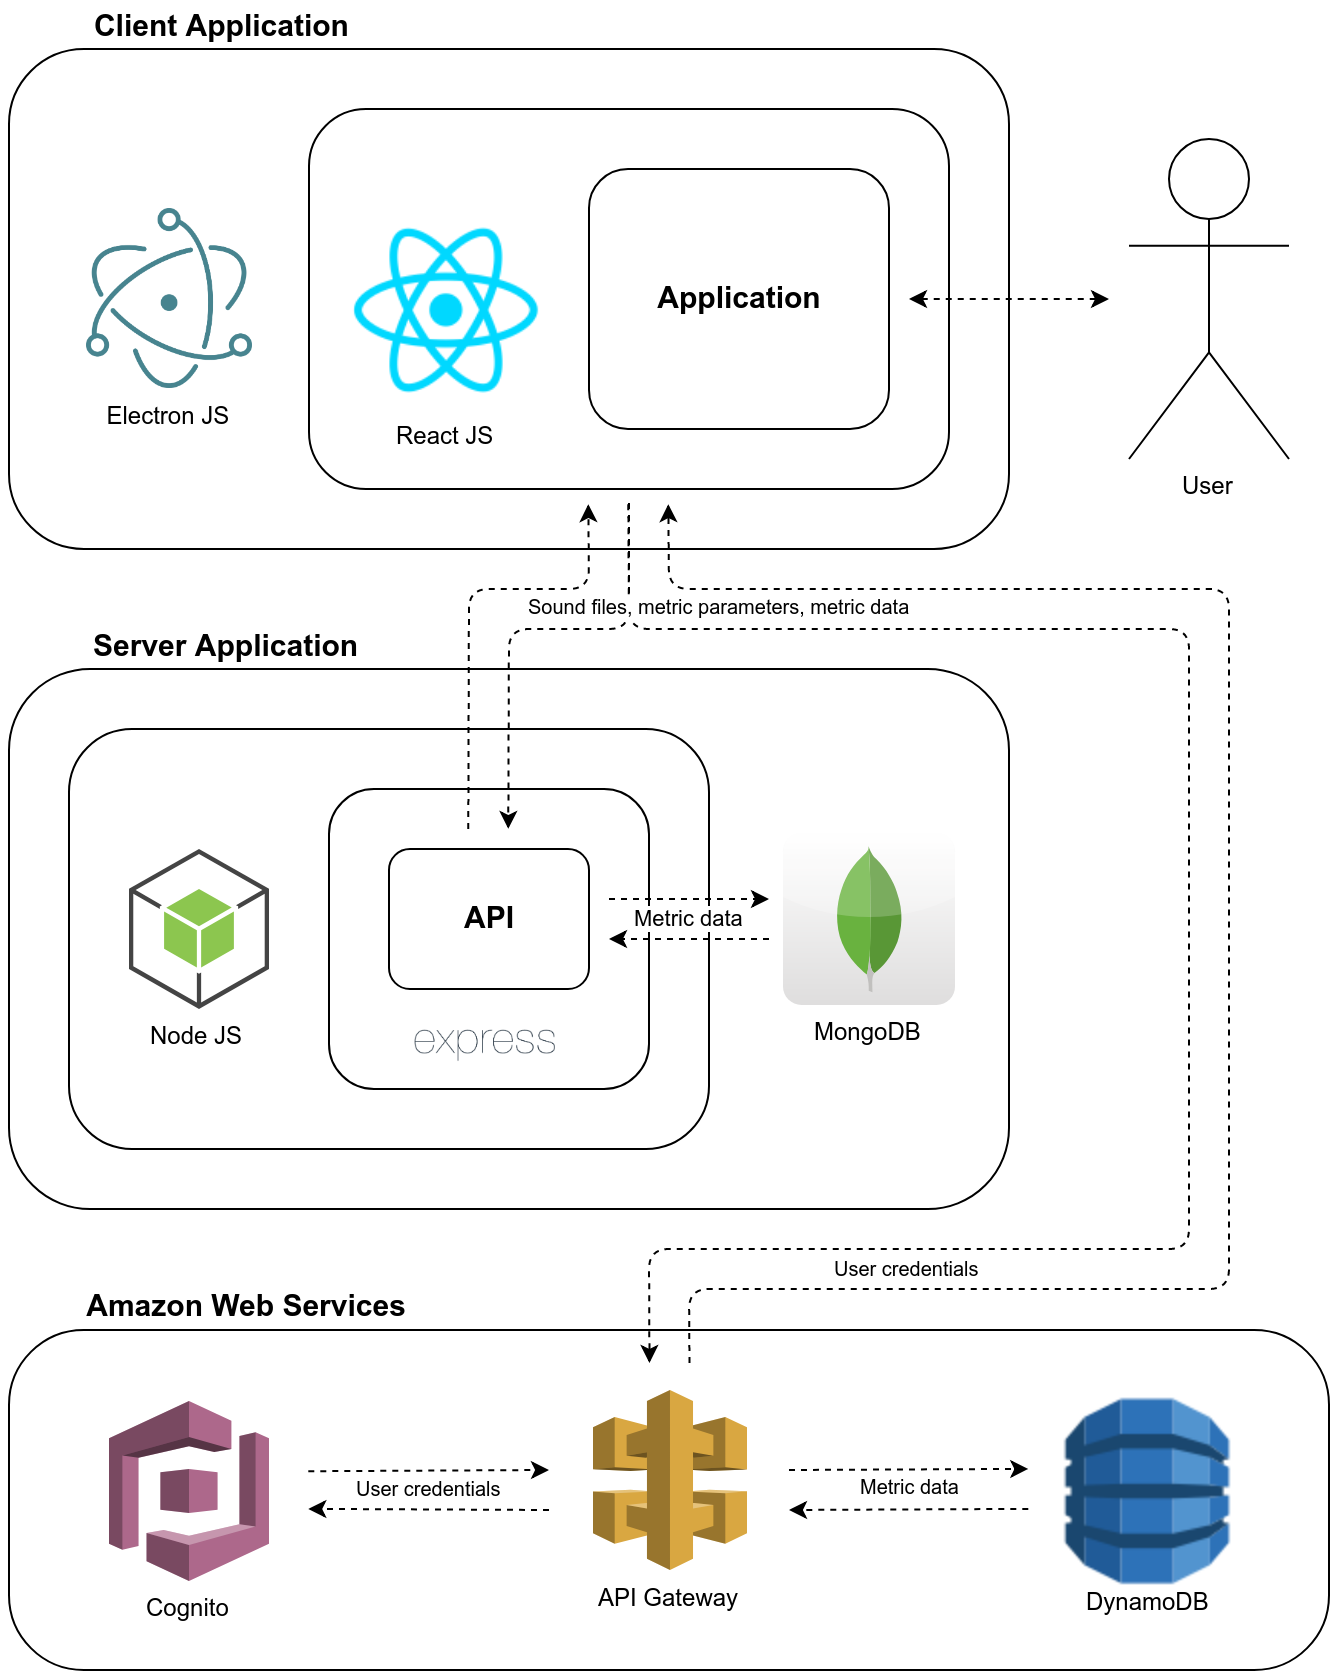
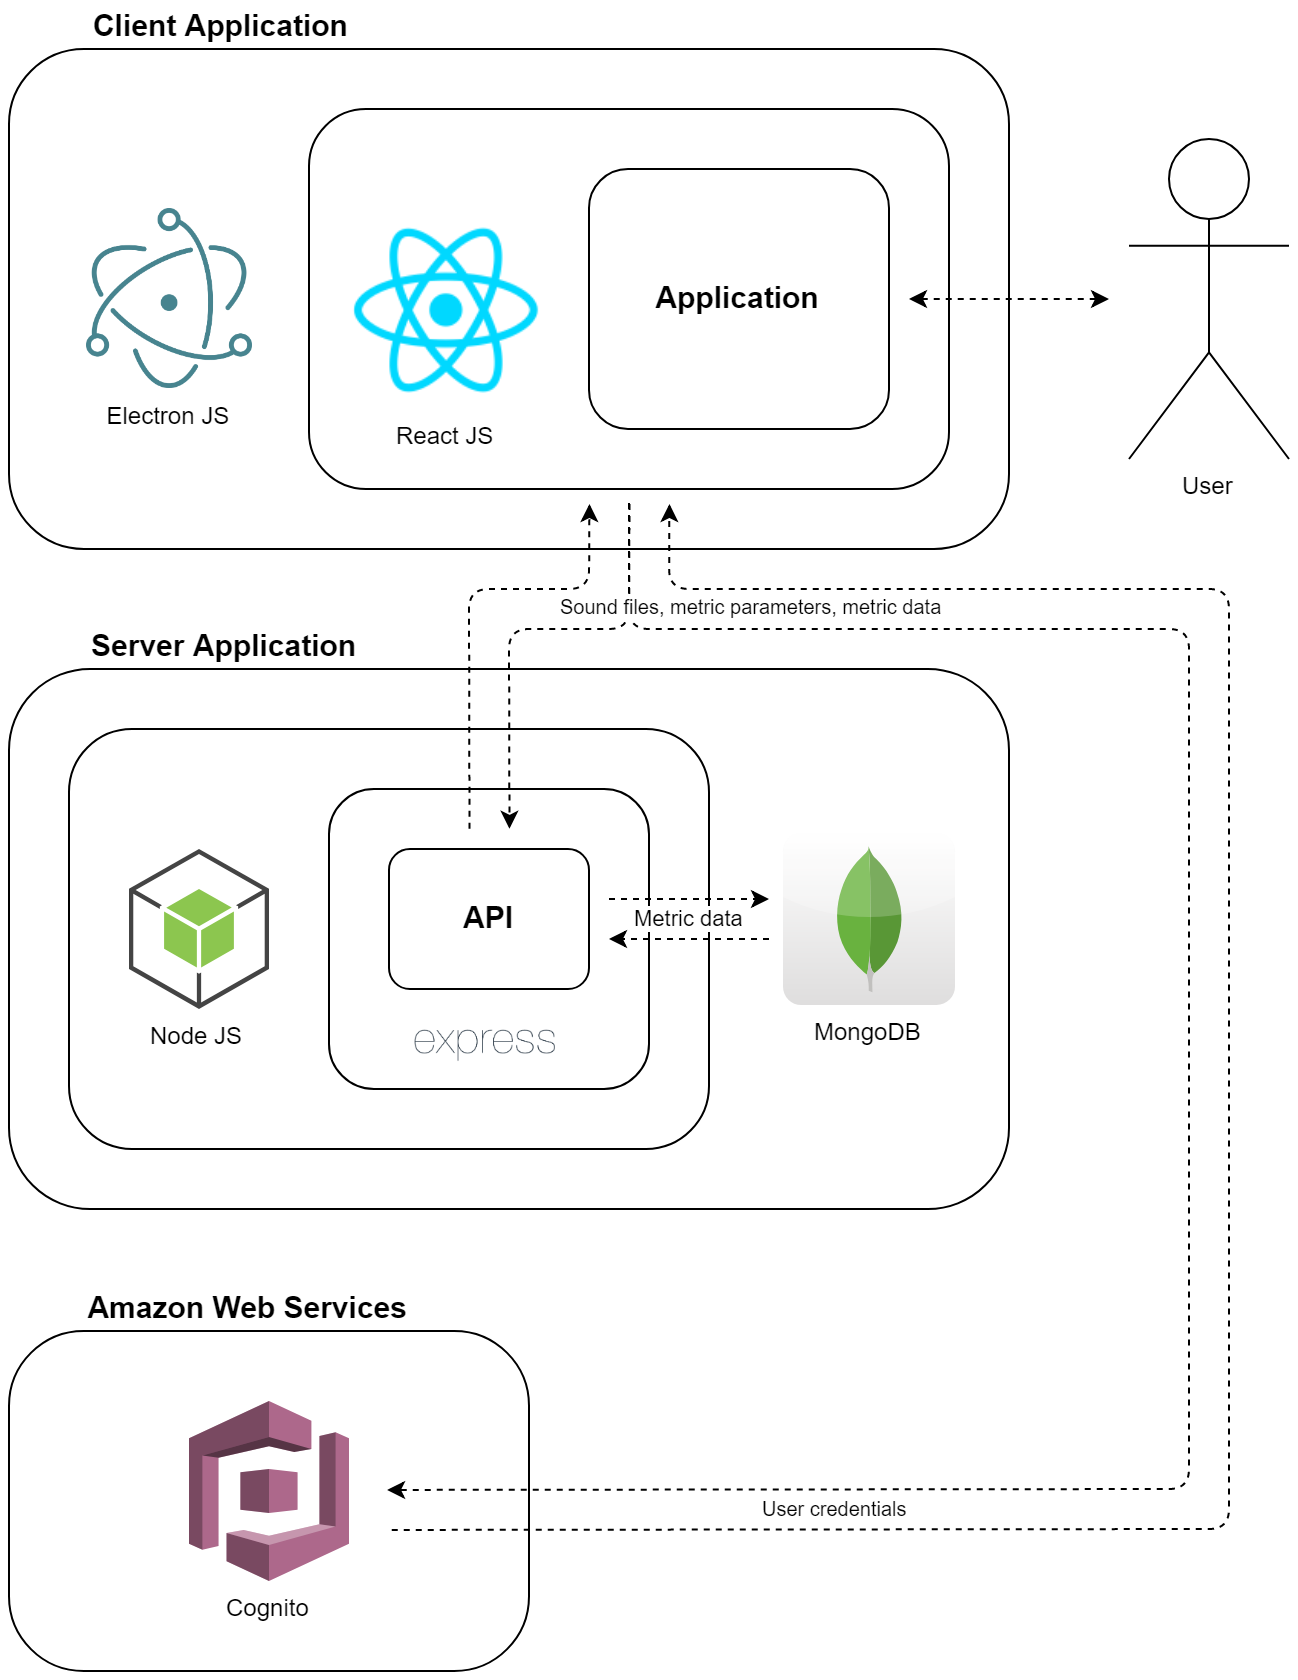
Updated infrastructure diagram; updated ML section; other misc.

diff --git a/docs/design document/tech/techsUsed.tex b/docs/design document/tech/techsUsed.tex
@@ -8,9 +8,9 @@ Electron is a tool for creating desktop applications using JavaScript, HTML, and
 Recharts is the library used for creating the data visualizations from job results. It is built off the D3 library and offers a great API for creating easy to read, high quality graphs using React components. In addition, it offers a wide variety of graph types which is essential to this project as each index being used requires different visual representation. Recharts also allows for interactivity with the graphs themselves, so allowing the user to listen to audio files with the click of a data point is possible. Overall, Recharts seems the best entry level graphing library for this project.\par
 
 \paragraph{Local Back End} \mbox{}\\
-\textit{Technologies used: Express, NodeJS, MongoDB, Mongoose, JavaScript, Redis, R}\par
+\textit{Technologies used: NodeJS, Express, MongoDB, Mongoose, Redis, R}\par
 Express is a JavaScript library for creating a sort of \textquotesingle skeleton\textquotesingle\ of a website. By using Express, we can create an outline of our site\textquotesingle s backend local infrastructure. This is useful for the development of the API we will be using to allow all the working pieces of the project to interact with each other.\par
 Using Node and MongoDB along with Mongoose, we can interface and query the Mongo database, hereon refered to as the local database. The reason that MongoDB is the best choice for our particular project is that Mongo allows for more dynamic database objects than a SQL database. An example of this would be in the output of the algorithms being run against the sound files. Some of the output is done in lists, and depending on the size of the input files, the number of those lists is arbitrary. This characteristic makes using a SQL database very difficult because we\textquotesingle d need an arbitrary number of rows for each list that is output from the processing. With MongoDB, we can include lists as a field in our database, and there these lists can be populated in a much more compact way. In addition, during planning, we came up with an efficient way to map parameter research, which we are referring to as jobs, to the inputs they are run on. MongoDB allows reference IDs as fields, so we are going to be implenting a M to N relationship, where a set of inputs, or multiple sets, will be mapped to many different jobs. This will allow the user a lot of freedom when choosing what kind of analysis they want to run on their data.\par
 Our service\textquotesingle s backend API is written in JavaScript, allowing for JSON objects to be passed back to the client for processing in the various pages. Further API documentation can be found in the Application Programming Interface section of this report.\par
 As for the processing of jobs on indices we used Redis. This cache server allows us to use a package by the name of Bull. The combination of Bull and Redis allow the server to run jobs outside of the Javascript server's event loop. This means that we can process multiple jobs at the same time all the while keeping the server open to new requests. Without Redis our server would be "busy" during any processing and wouldn't be able to communicate with the client.\par
-For the actual processing of the jobs we used the R scripting language. We went with this choice because the \codesnip{soundecology} package is written in R. On top of that the R language is relatively fast when compared to Javascript. In order to bridge the gap between Javascript and R we used the rscript package. This allows us to run r scripts and retrieve their returned data. To do this we wrapped each \codesnip{soundecology} function in a wrapper script that sanitizes inputs and outputs. Once the script is run we capture the results in a Javascript object and store it in the database. Once stored we can send the data to the client in order to be displayed\par
+For the actual processing of the jobs we used the R scripting language. We went with this choice because the \codesnip{soundecology} package is written in R. On top of that the R language is relatively fast when compared to JavaScript. In order to bridge the gap between JavaScript and R we used the \codesnip{r-script} package. This allows us to run R scripts and retrieve their returned data. To do this we wrapped each \codesnip{soundecology} function in a wrapper script that sanitizes inputs and outputs. Once the script is run we capture the results in a JavaScript object and store it in the database. Once stored we can send the data to the client in order to be displayed.\par

diff --git a/docs/design document/tech/machineLearning/intro.tex b/docs/design document/tech/machineLearning/intro.tex
@@ -2,7 +2,7 @@ The field of soundscape ecology has made astounding progress in the last decade.
 Recordings and new techniques have allowed for the gathering of massive amounts of sound data. While this remains good news for the field, it raises new problems. Who or what will listen to these recordings, and how can they be analyzed in an efficient way? Many techniques have cropped up, most prominent of which is having hired experts listen to recordings, but the technique we are focused on in this project are the use of indices. These indices are algorithms that can be run on sound files, which then produce numerical values that can uncover generalizations about the sound (more information be found in the Soundscape Ecology Indices section).\par
 While the soundscape ecology indices have great potential, they have not yet been rigorously tested and are currently in the process of being tried out in field studies. The main downfall of the indices is that they are used to compress vast amounts of data about the health of an environment into relatively few data points. This leads to a loss of information. Along with this lossy compression, sound files must also be cleaned before the indices can be properly used. The cleaning often involves chopping off certain frequency ranges or manually removing geophonic and anthrophonic sounds in the recording. This cleaning, combined with the already lossy nature of the indices, provides very rough numerical descriptions of the sound files, which have yet to be proven completely accurate in general circumstances.\par
 Due to the nature of the indices, they are often used alongside another method to verify their accuracy. As mentioned previously, experts are often used, and this method is often costly and time-consuming.\par
-Our goal was to research the use of machine learning techniques in order to build models that can recognize species\textquotesingle\ sounds. While these method are quite robust, in the sense that they have high accuracy ratings when used, they can not be used for general cases. A specific model must be built for each species of bird, and this makes it less than ideal for a substitute for the indices, but an ideal technique for verifying the indices results in a specific environment. We hope that future groups may take our research and put it to use in furthering the Mangrove application.\par
+In researching machine listening, our goal was to determine the best techniques and models that could be used to recognize species\textquotesingle\ sounds. While the methods listed in the following sections are quite robust, in the sense that they have high accuracy ratings when used, they cannot be used for general cases. Depending on the machine learning methodology, it may or may not become necessary to build a unique model for each species of bird, and this makes it less than ideal as a substitute for the indices, but an ideal technique for verifying the indices\textquotesingle\ results in a specific environment. We hope that future groups may take advantage of our research and put it to use in furthering the Mangrove application.\par
 \begin{center}
 	\includegraphics[width=.8\textwidth]{bird_spec}
 \end{center}

diff --git a/docs/design document/tech/iterations.tex b/docs/design document/tech/iterations.tex
@@ -39,4 +39,4 @@ The backend was originally designed (prior to any attempt at implementation) so 
 After this redesign, multiple similar API calls must be made to the server when performing certain types of user interactions. For example, when creating a batch of jobs that uses the same specification, a variation on the same request must be made for each subsequent job being created in the batch. To summarize, the iterative portion of performing batch requests on data from the server has shifted from the creation of the request body to the sending of each request. No analysis has yet been made to determine what kind of performance impact this may have on either the client or the server, but it is expected that this change will, at the very least, simplify the design process.\par
 
 \paragraph{Queue Modifications} \mbox{}\\[\paragraphheaderspace]
-Originally the Queue for processing jobs used a package called Async. We beleived that this package would be able to split the processing tasks of running jobs and keeping the server open and listening. Once the package was implemented, we quickly realized that while a job was running it would stop the event loop. This lead to the server being unresponsive during and processing time. In order to remedy this we switched over to a solution that used an external caching server, namely Redis. Redis can spin up additional Javascript threads that later report to the main Javascript loop. This allows all the processing to be done on a separate threads and prevents the server from hanging. This solution allowed us to take advantage of Javascript's capability of spinning up sub-proccess without having to manually keep track of them ourselves.
+Originally the Queue for processing jobs used a package called \codesnip{async}. We thought that this package would be able to split the processing tasks of running jobs and keeping the server open and listening. However, once the package was implemented, we quickly realized that while a job was running it would pause the event loop of the server as a whole. This lead to the server to become unresponsive during the processing time. In order to remedy this, we switched over to a different package, called \codesnip{bull}, that used an external caching server, namely Redis. Using \codesnip{bull} and Redis, the server was then able to spin up additional JavaScript threads that report back to the main JavaScript event loop. This allows all the processing to be done on separate threads and prevents the server from hanging. This solution allowed us to take advantage of JavaScript\textquotesingle s capability of spinning up sub-proccess without having to manually keep track of them ourselves.

diff --git a/docs/design document/tech/machineLearning/neuralNetworks.tex b/docs/design document/tech/machineLearning/neuralNetworks.tex
@@ -14,7 +14,7 @@ We ran an experiment during the UCF hackathon in order to see if a vanilla(netwo
 	\includegraphics[width=.8\textwidth]{summary}
 \end{center}
 
-Using mfcc, a log scale frequency transformation, we pulled rough features out of the sound file and then fed them into our network. The structure of which can be seen above. With this set-up we were able to, on average, obtain a 53\% test accuracy, which is 20\% better than a random guess. Not spectacular results but promising results considering the lack of data and the small amount of layers in our network. Considerations for future groups could be larger data collection efforts along with securing hardware that can handle deeper networks. Code can be found in citation\cite{ot}
+Using mfcc, a log scale frequency transformation, we pulled rough features out of the sound file and then fed them into our network. The structure of which can be seen above. With this set-up we were able to, on average, obtain a 53\% test accuracy, which is 20\% better than a random guess. Not spectacular results but promising results considering the lack of data and the small amount of layers in our network. Considerations for future groups could be larger data collection efforts along with securing hardware that can handle deeper networks. Code can be found in citation.\cite{ot}
 
 \subsubsection{Convolution Neural Networks}
 After this experiment we realized that vanilla networks would not be strong enough models to classify the sounds we needed. This led us to further research Convolution Neural Network. These models gain their name from the use of convolutions or kernels to find relations between data points. In our use these convolutions would be run across an image of a spectrograph made from a sound file. These convolutions would then be able to find low level features within the spectrograph that may detect certain types of sounds and be able to classify them. The only downside to this method is that it requires much more data than a vanilla network. We made some strides in collecting data for this process but were not able to make models in time for the end of the project. The data can be found at the citation.\cite{soundData}

diff --git a/docs/design document/tech/infrastructure.tex b/docs/design document/tech/infrastructure.tex
@@ -6,7 +6,7 @@ At a high level, the system\textquotesingle s infrastructure is composed of thre
 \begin{enumerate}
     \item The \textbf{Client Application}: This contains the user interface with which any users may interact. It runs via an Electron application, and so will be able to run on all major operating systems. Using this application, a user may log into an account, create job requests to process audio files, and present the results of those jobs in a visually accessible manner.
     \item The \textbf{Server Application}: This is where the vast majority of the heavy lifting occurs, including the analysis of audio files for metric data, the storage of the resulting data, and the transmission of any files or data requested by the user via the Client Application. Typically, this application runs on a dedicated server, on which any sound files that are to be analyzed are stored. However, it is equally as possible for the user to run this application and the Client Application on the same machine.
-    \item \textbf{Amazon Web Services}: AWS will be tasked with user account management, metric data storage, and intercommunication between Client and Server Applications over the internet. Users that run their own instances of the Server Application will be able to enable data sharing from their own servers, the data from which will be mirrored on AWS DynamoDB, accessible by other users from across the web.
+    \item \textbf{Amazon Web Services}: AWS will be tasked with user account management. An individual account will able to be used by all instances of the server and client applications, as opposed to creating a new account for each server instance.
 \end{enumerate}
 
 \subsubsection{Front End Infrastructure}
